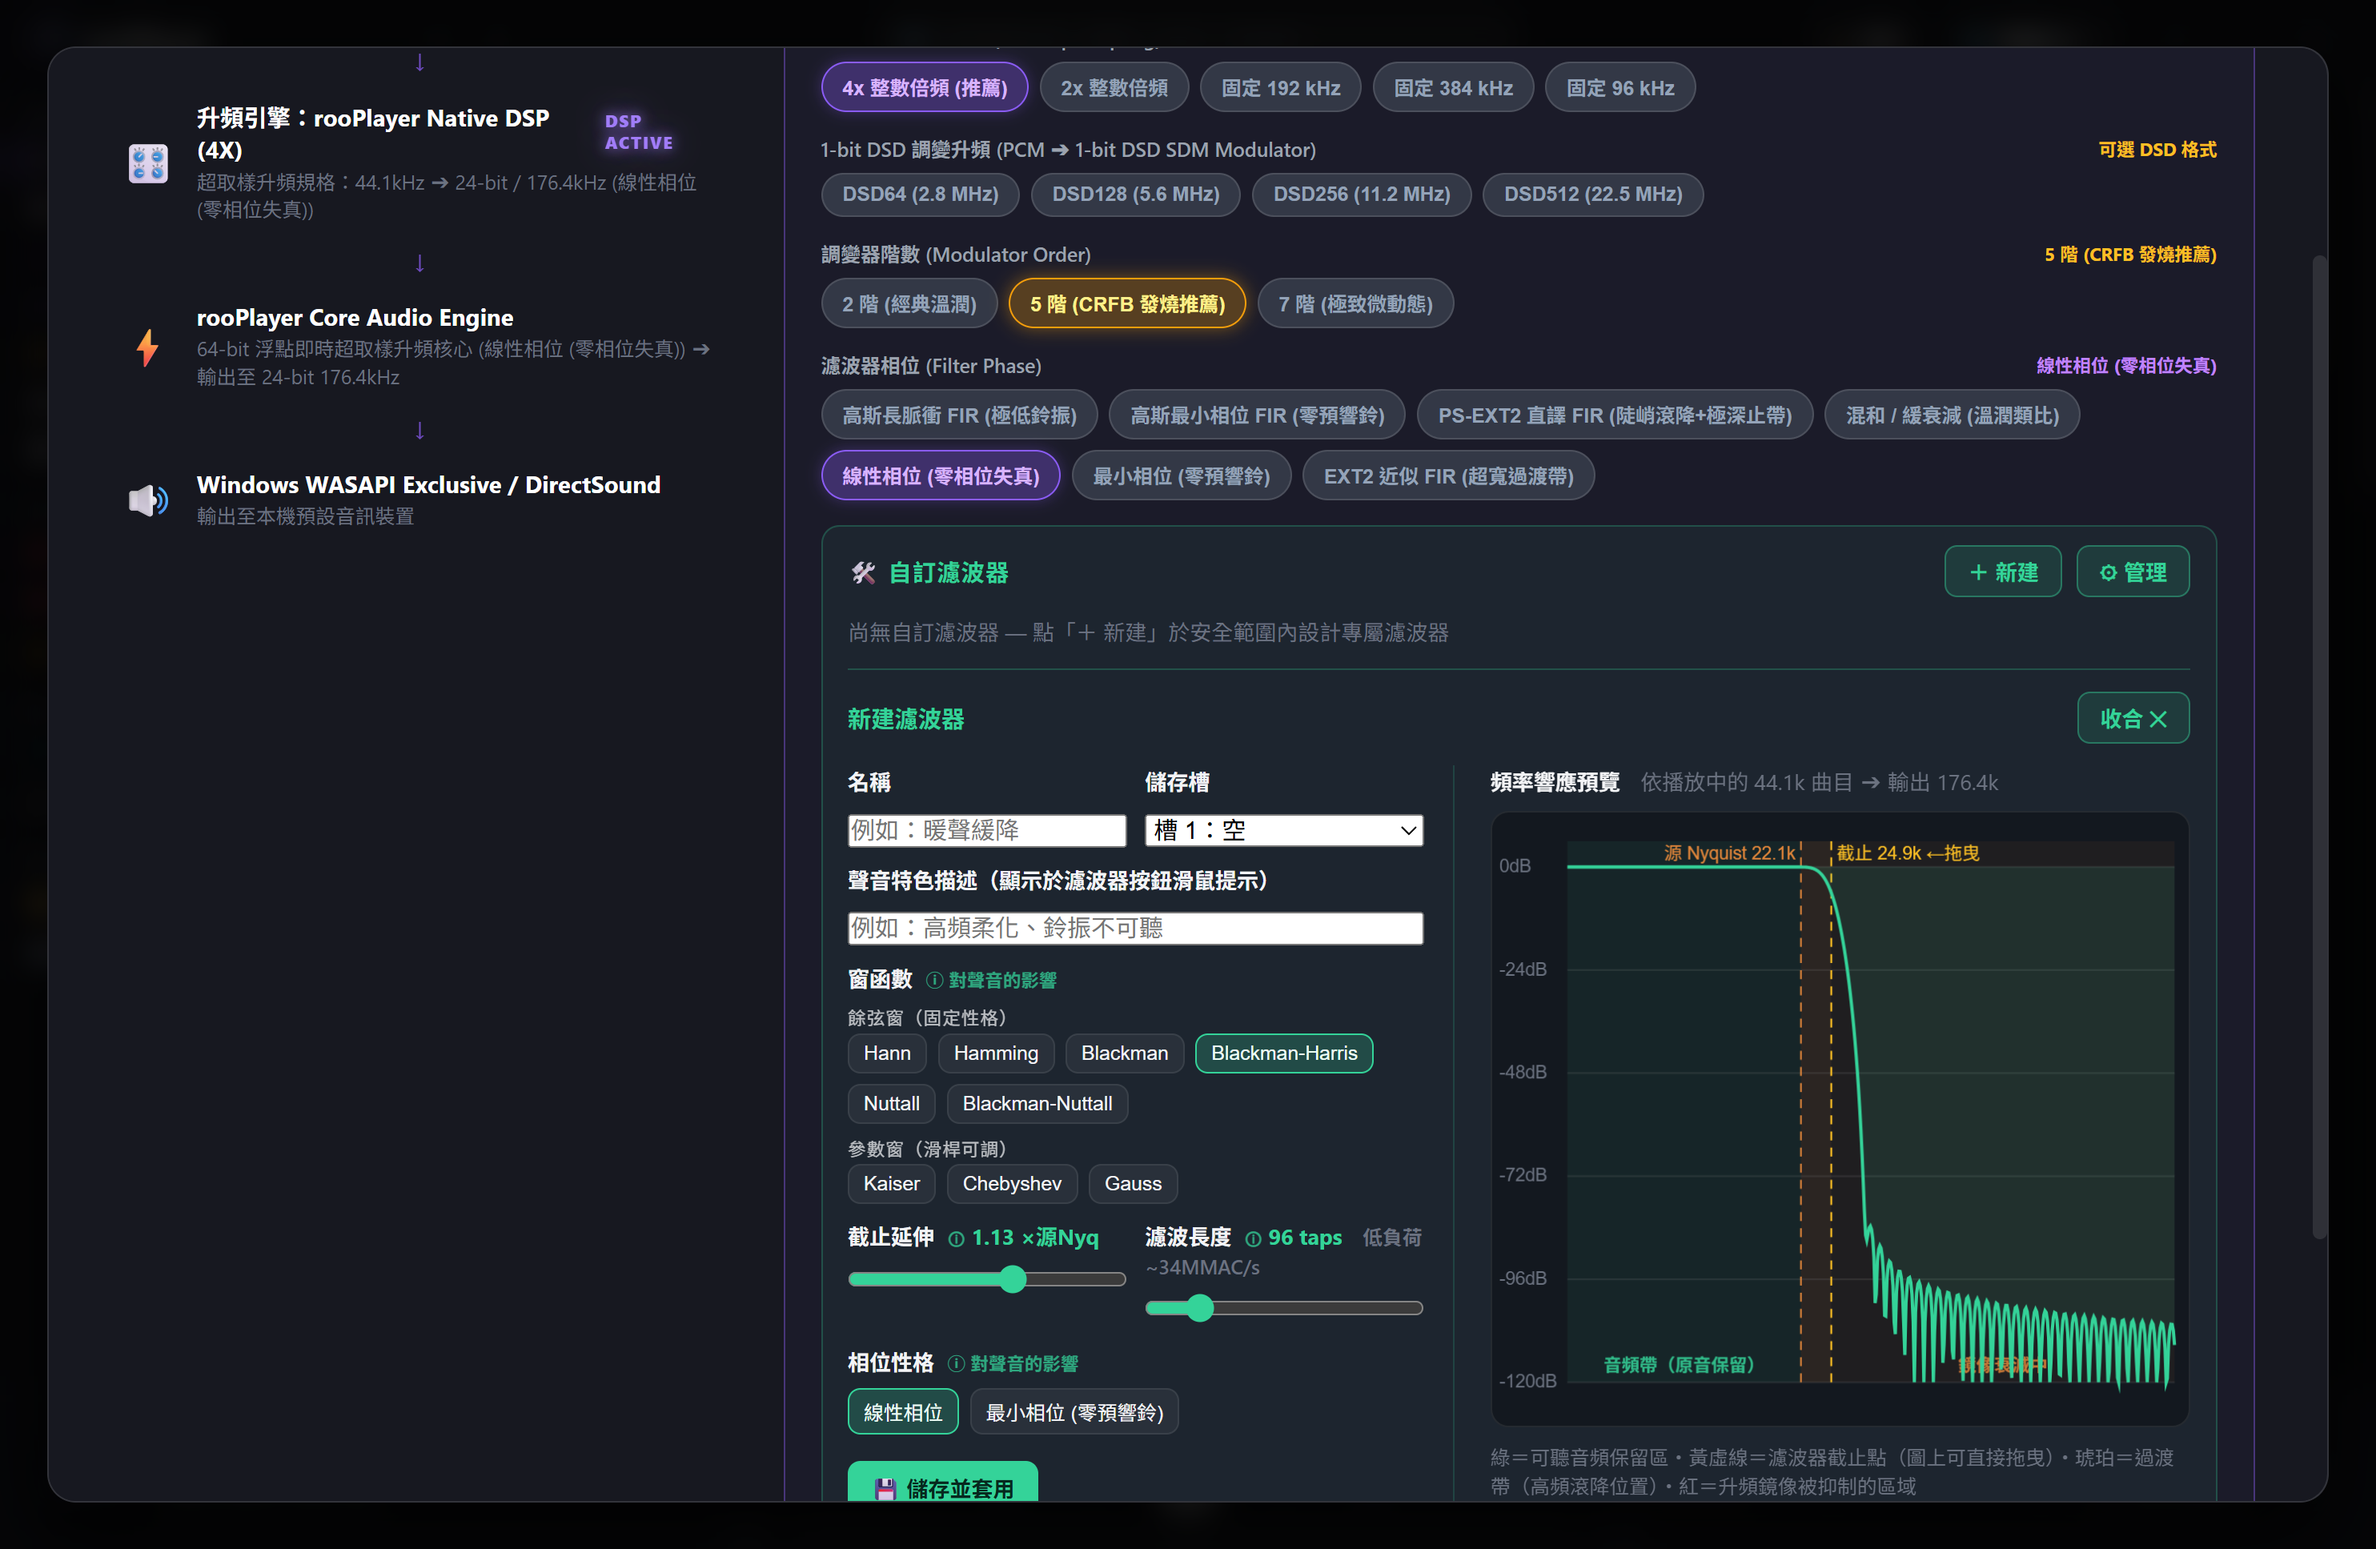
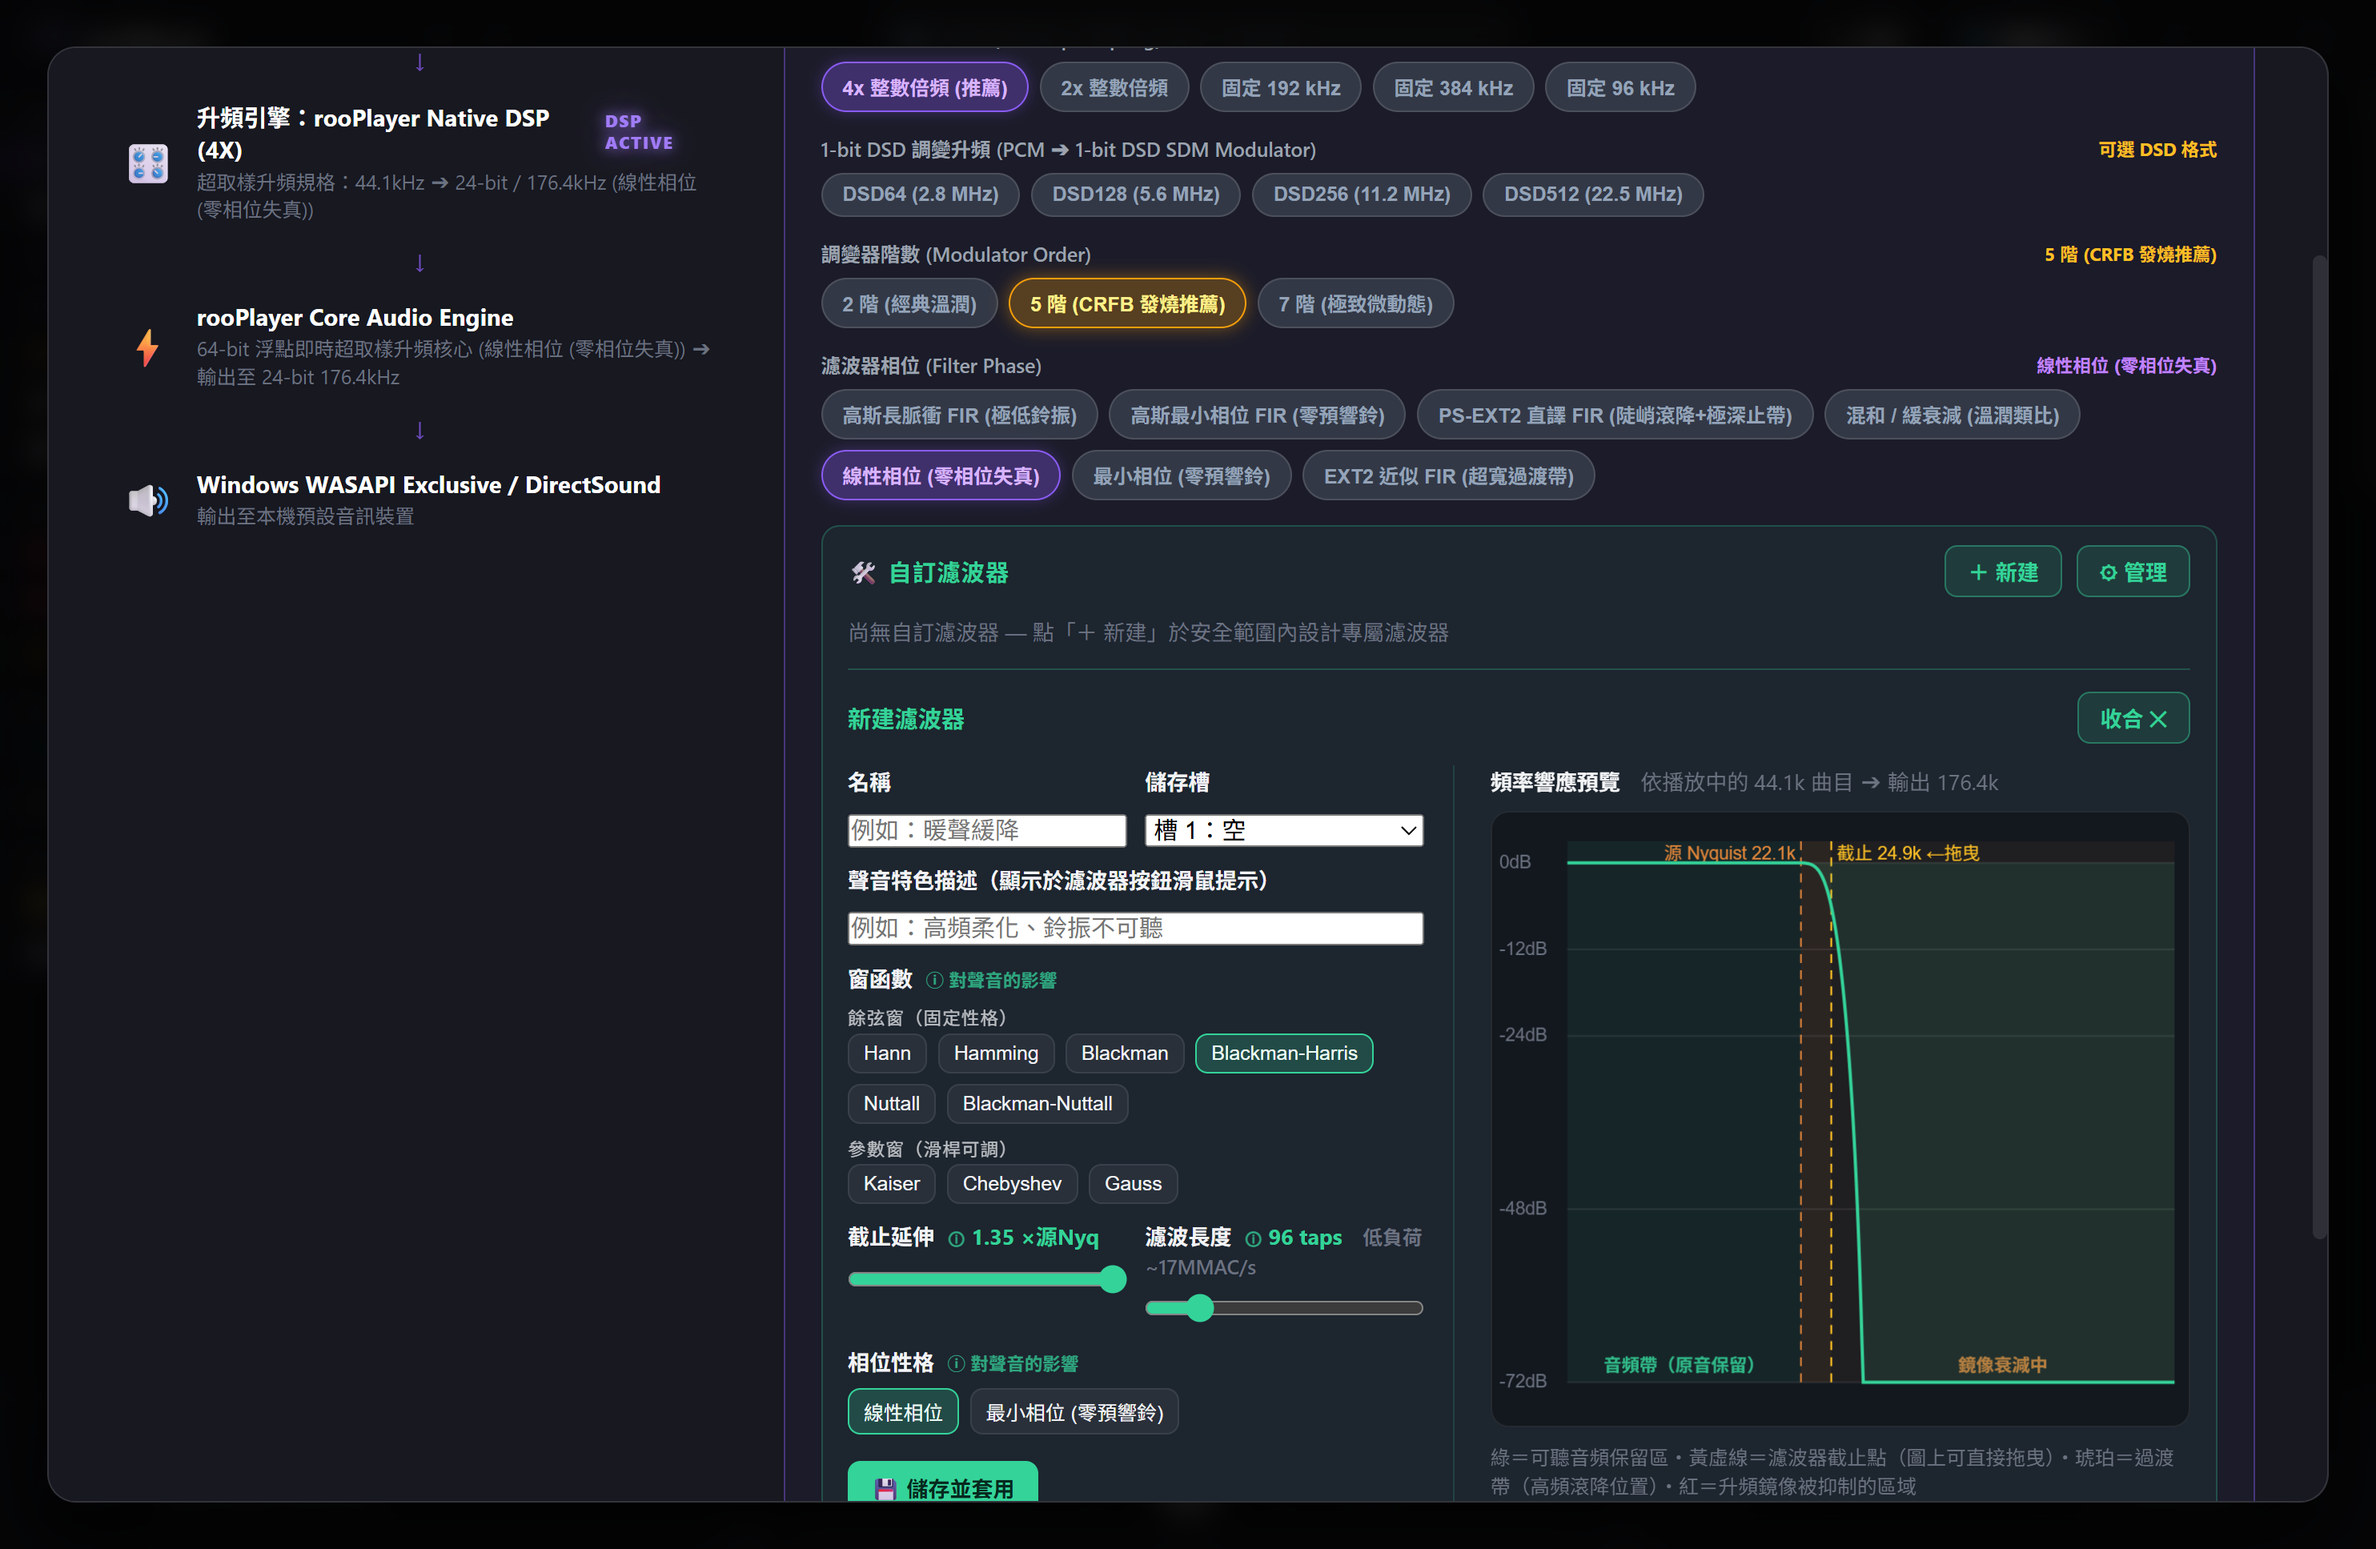
feat: 響應圖採用方案A（擴大 0~-72dB 垂直解析度使滾降細節清晰）並修正多相升頻真實 MMAC/s 計算

Changed region(s): [[0.7749, 0.6202, 0.9299, 0.8992], [0.403, 0.8062, 0.527, 0.8372], [0.7439, 0.5581, 0.7749, 0.5891]]

diff --git a/app.js b/app.js
@@ -8282,9 +8282,11 @@ function ufUpdateFormReadouts() {
   document.getElementById('ufCutVal').textContent = effRel + 0.005 < spec.cutoffRel
     ? `${cutTxt}（此脈絡最高 ${effRel.toFixed(2)}）`
     : cutTxt;
-  const mmac = Math.round(spec.taps * ctx.targetRate * 2 / 1e6);
+  // 多相升頻 FIR 的真實雙聲道運算量：每個輸入樣本貢獻 2 * spec.taps 個係數
+  // 實體運算量 = (2 * taps) * srcRate * 2 聲道
+  const mmac = Math.round(spec.taps * 2 * (ctx.srcRate || 44100) * 2 / 1e6);
   const badge = document.getElementById('ufLoadBadge');
-  const level = mmac < 60 ? '低' : (mmac < 150 ? '中' : '高');
+  const level = mmac < 40 ? '低' : (mmac < 100 ? '中' : '高');
   badge.textContent = `${level}負荷 ~${mmac}MMAC/s`;
   badge.className = 'uf-load' + (level === '中' ? ' load-mid' : (level === '高' ? ' load-high' : ''));
 }
@@ -8427,7 +8429,9 @@ function drawUfPreview(cv, data, ctx) {
   const cs = getComputedStyle(document.documentElement);
   const textCol = (cs.getPropertyValue('--text-muted') || '#888').trim() || '#888';
   const padL = 42, padR = 8, padT = 16, padB = 24;
-  const dbTop = 6, dbBot = -120;
+  // 方案 A 最佳化：將 Y 軸動態範圍改為 +3dB 到 -72dB（原 -120dB 壓縮了 3/4 空間在不可聽噪聲上）
+  // 讓通帶平坦度、轉折點與滾降斜率的垂直空間擴大將近一倍，調整窗函數與 Taps 的差異清晰可見！
+  const dbTop = 3, dbBot = -72;
   const yOf = db => padT + (dbTop - db) / (dbTop - dbBot) * (H - padT - padB);
   if (!data || !data.xs || !data.xs.length) {
     g.fillStyle = textCol; g.font = '12px sans-serif';
@@ -8469,9 +8473,9 @@ function drawUfPreview(cv, data, ctx) {
     fillBand(srcNyq, fMax, 'rgba(248,113,113,0.06)');
   }
 
-  // ---- dB 網格（每 24dB）----
+  // ---- dB 網格（+3dB ~ -72dB，每 12dB 或 24dB，凸顯轉折與過渡帶深度）----
   g.strokeStyle = 'rgba(128,128,128,0.18)'; g.fillStyle = textCol; g.font = '10px sans-serif'; g.lineWidth = 1;
-  for (const db of [0, -24, -48, -72, -96, -120]) {
+  for (const db of [0, -12, -24, -48, -72]) {
     const y = yOf(db);
     g.beginPath(); g.moveTo(padL, y); g.lineTo(W - padR, y); g.stroke();
     g.fillText(db === 0 ? '0dB' : db + 'dB', 4, y + 3);
